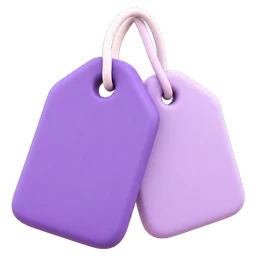
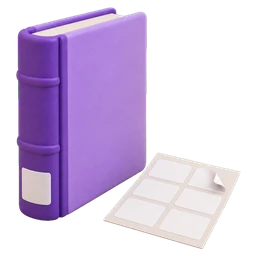
Biblioteca (piloto Cailico): ilustración de Etiquetas = adhesivo en el lomo del libro

diff --git a/src/lib/fichas3d.tsx b/src/lib/fichas3d.tsx
@@ -65,7 +65,7 @@ const DISPONIBLES = new Set([
   "registro-agente", "registros-comportamiento", "retiro-estudiantes", "uso-agente", "inasistencia",
   "uniforme", "logros", "aprende-normi", "bib-catalogo", "bib-comunidad", "bib-etiquetas", "bib-prestamos",
 ]);
-const VERSION = 4; // subir al reemplazar imágenes (rompe la caché)
+const VERSION = 5; // subir al reemplazar imágenes (rompe la caché)
 
 const url3d = (nombre?: string) => (nombre && DISPONIBLES.has(nombre) ? `/fichas3d/iconos/${nombre}.webp?v=${VERSION}` : undefined);
 const activo = () => COLEGIOS_FICHAS_3D.has(getSession().colegio_id ?? "");
